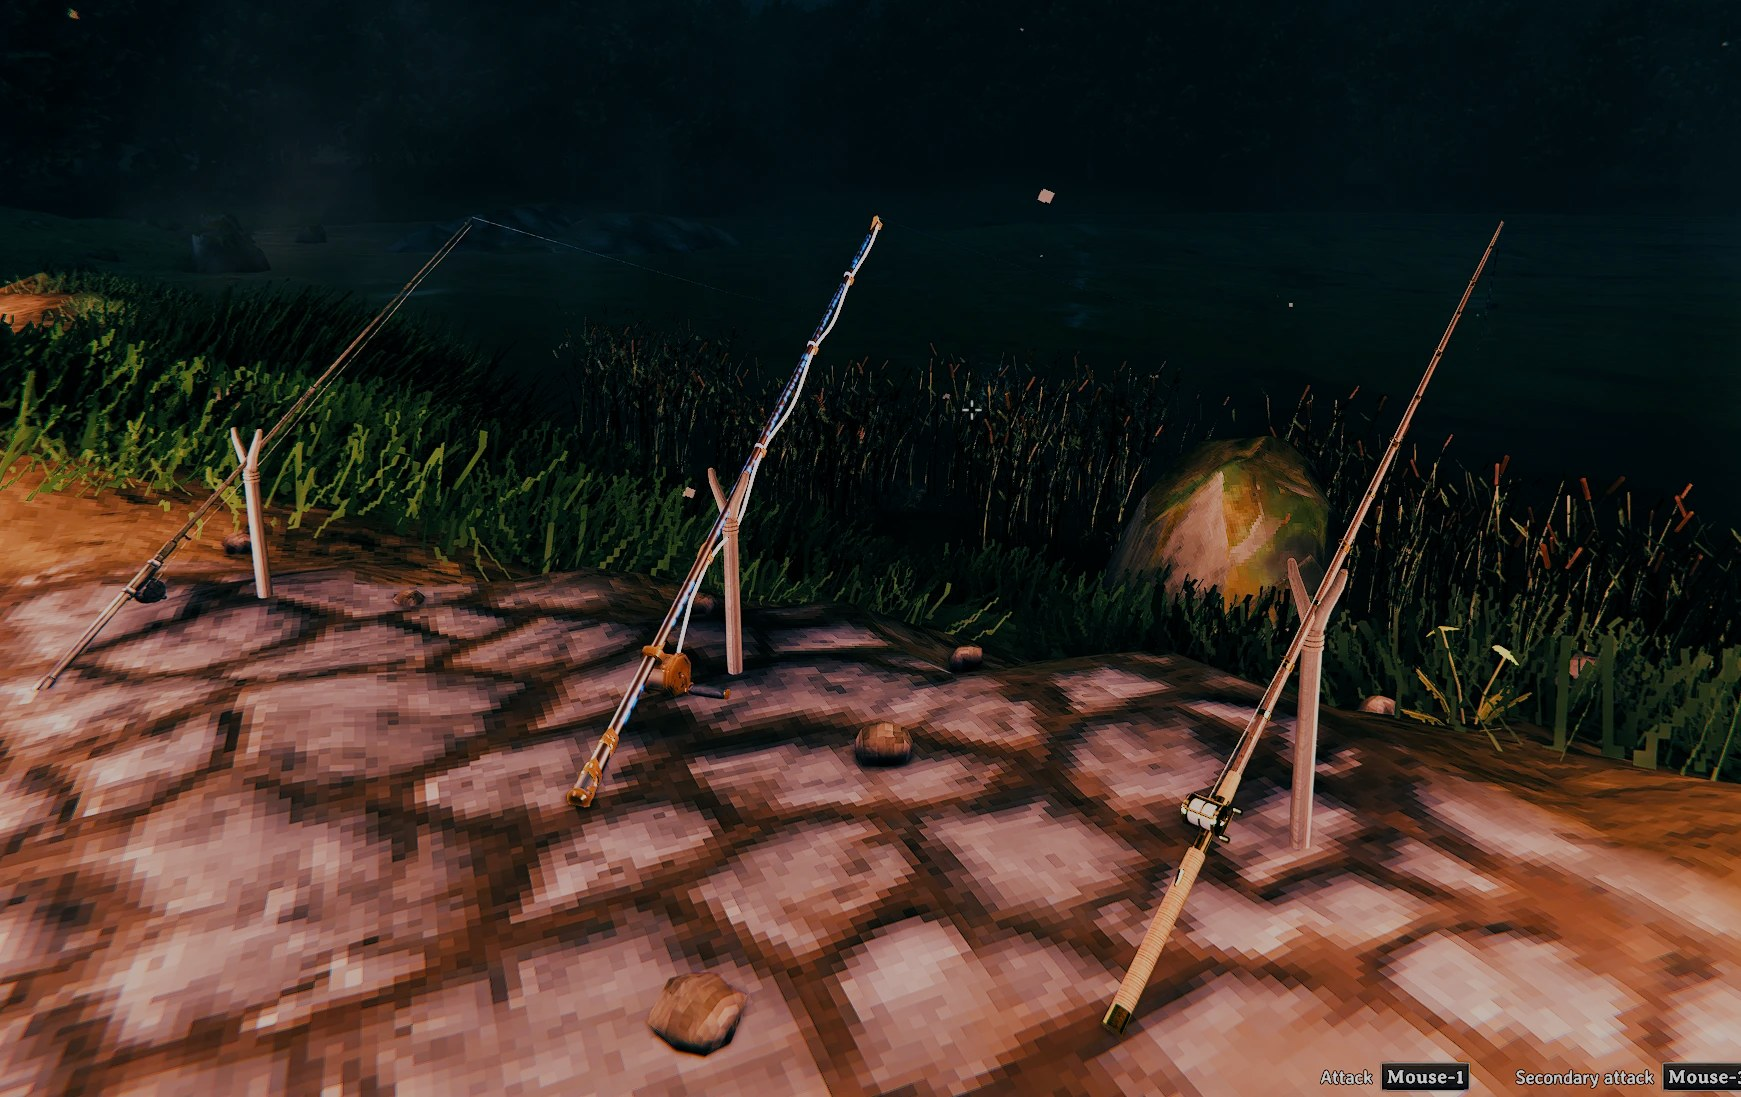
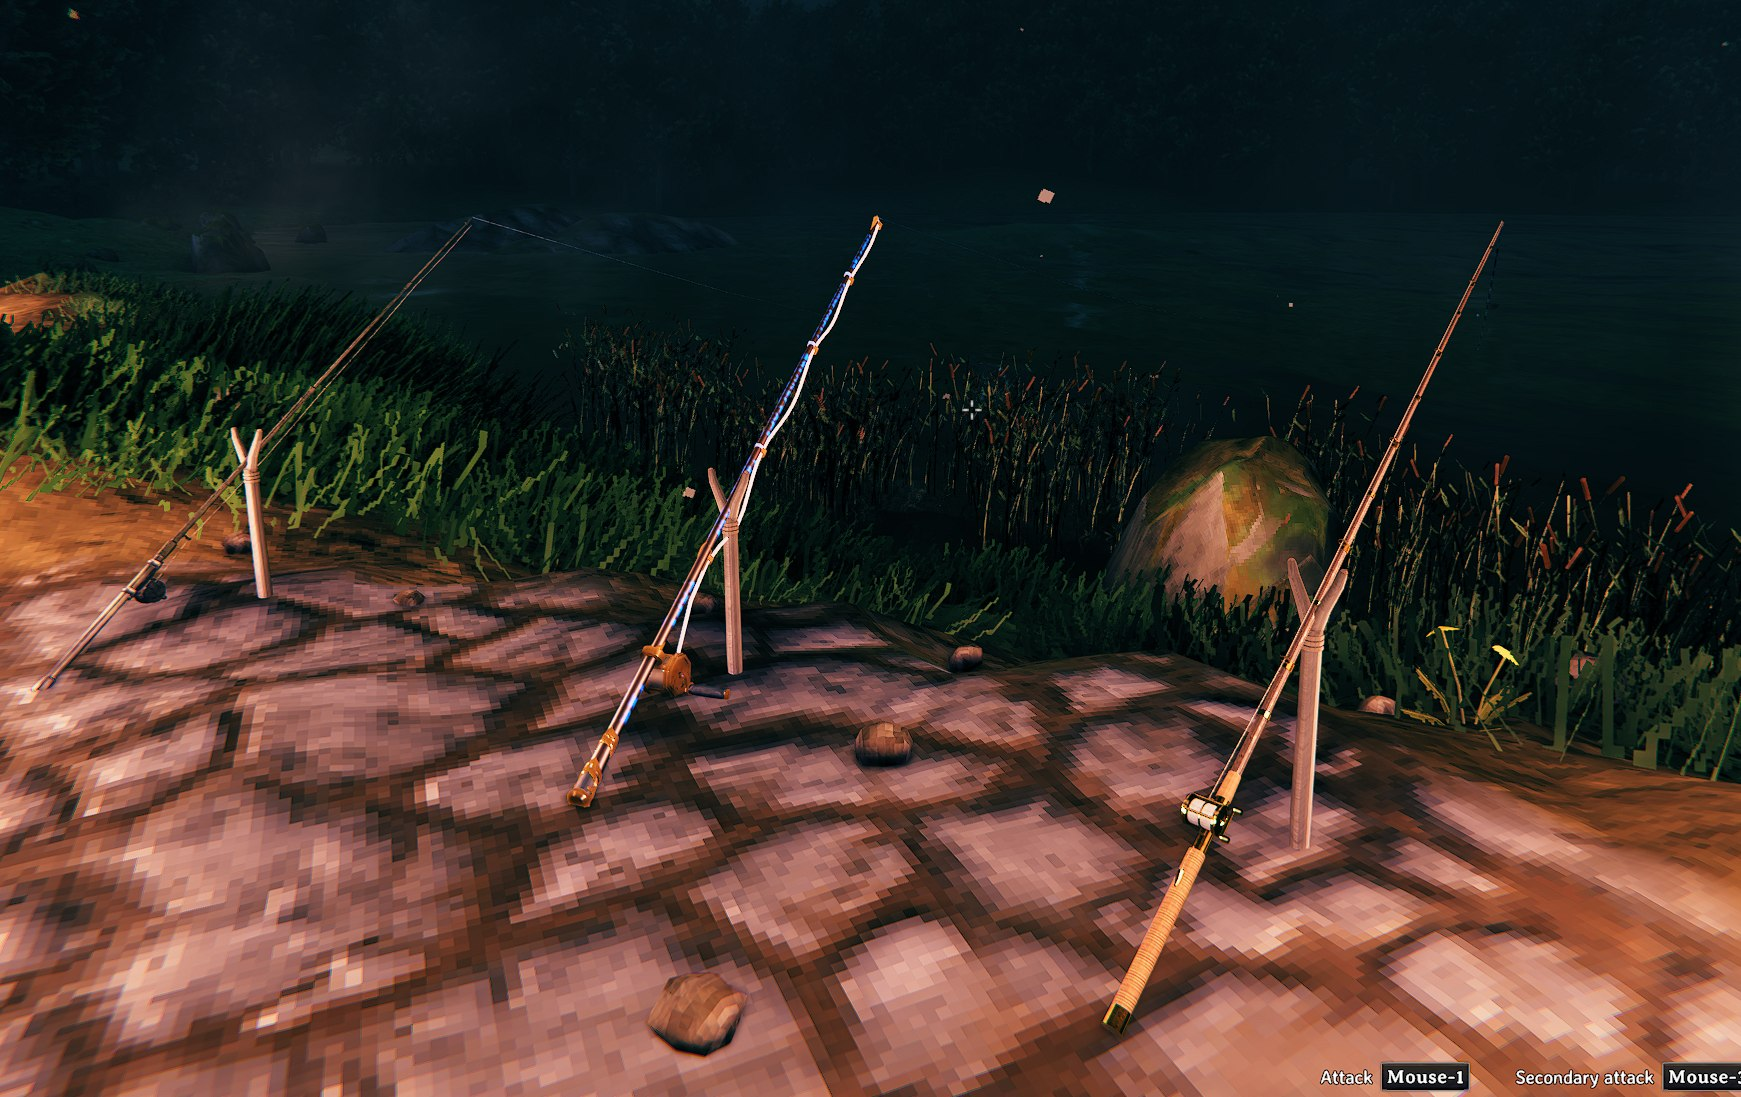
1.0.4: changelog and version
Ice fishing (the Ice Auger, ice holes, the Ice Fishing Rod, the Burbot, Lake
Whitefish and Ice King Trout, two ice jigs), the Hide Lavvu, Ice Shelter and
Ship-Tent, rod holders and the rod rack, and the November playtest fixes. The
rod holder and rod rack screenshots rebuilt from the originals.

diff --git a/src/Core/Plugin.cs b/src/Core/Plugin.cs
@@ -17,7 +17,7 @@ namespace ValheimDeepWaters
     {
         public const string Guid = "valheimdeepwaters";   // also the config file's name: BepInEx/config/valheimdeepwaters.cfg
         public const string Name = "Valheim: Deep Waters";
-        public const string Version = "1.0.3";
+        public const string Version = "1.0.4";
 
         internal static ManualLogSource Log = null!;
         internal static string ConfigDirectory = null!;

diff --git a/CHANGELOG.md b/CHANGELOG.md
@@ -1,5 +1,53 @@
 # Changelog
 
+## 1.0.4
+Ice fishing: drill a hole in the frozen lakes of the Deep North and the Mountain, fish down it for three new fish,
+and do it from one of three shelters. Rod holders and a rod rack, and the fixes from the November playtest.
+
+### Added
+- **Ice fishing**: the lakes and rivers of the Deep North (and the Mountain's frozen lakes) are walkable ice, and
+  nothing can be cast onto it. Drill a hole and fish down it.
+  - **Ice Auger** (forge 3): stand on the ice and attack. You set the auger upright and twist its T-handle until the
+    bit breaks through, and a real hole opens in the ice. It needs at least 1 m of water underneath.
+  - A hole freezes over after 20 minutes, skinning over in the last two. Press `E` to scoop out the slush and keep it
+    open as long again.
+  - **Ice Fishing Rod** (forge 3): a short rod with a bloodgold reel and an Elaking-fur grip. It fishes only through a
+    hole, with a longer hook window there (any other rod works in a hole at half the window). Click at a hole to drop
+    the line straight in; hold the click to let it down further. Click with no hole in front and it just says so.
+  - **Three fish that bite only under the ice**, each with its own model: the **Lake Whitefish** (5 kg), the
+    **Burbot** (8 kg, at night, on the bottom) and the legendary **Ice King Trout** (40 kg, dark slate with ice-white
+    markings and glowing eyes). The cold-water fish of the place bite through a hole too.
+  - **Two jigs** for them: the **Grub Jig** (forge 3) and the **Rime Jig** (black forge 2).
+  - The **Ice Angler's Watch Cap** also makes fish bite 30% sooner through the ice.
+- **Ice shelters**, built with the hammer near a workbench. Walk in: each counts as shelter for resting, the camera
+  stops at its walls, and a fire inside doesn't smoke you out. Drill a hole inside and the fish bite sooner.
+  - **Hide Lavvu** (+10%): a cone of poles under sewn hides, open at the top.
+  - **Ice Shelter** (+15%): an igloo of Valheim's own ice blocks with a vent at the top, and an ice bench round its
+    back wall under a deer hide, with three seats.
+  - **Ship-Tent** (+20%): a Viking ship's tent with dragon-head gables and its own campfire at the back.
+  - They can be set down on the lake ice as well as on the ground.
+- **Rod Holder** (workbench): a forked stake for the bank or the ice. Set a rod in it with its line out and it keeps
+  fishing while you do something else; run several at once. When a fish bites everyone nearby is told, a circle hook
+  sets itself, and anyone can take the rod up and fight it. The HUD shows the tackle on that line.
+- **Rod Rack** (workbench): stores ten rods.
+- A **Weight Unit** setting: catches in pounds or kilograms.
+- Deep Waters catches count for **Valheim's own fishing achievements**.
+
+### Changed
+- **Mead bottles** are see-through glass, with the mead glowing inside.
+- **Boss fish** stir a bigger swirl in the water (16 m, more for the biggest).
+- The Cork float is now the **Cork-and-Bone Float**, made with bone fragments instead of a boss item.
+- With bait out (no lure), a left click tugs the rod and draws the bait in a little.
+- Vanilla fishing rods and baits found in the world (in the frost caves, or dropped) turn into Deep Waters gear.
+- Fireflies glow at night, with a small pulsing light.
+- Textures are 1K at most, so the download is smaller.
+
+### Fixed
+- After looting your grave, equipped items and tackle go back to their own slots.
+- The tackle screen's loadouts use tackle boxes you carry, wear, or set down and open; applying a loadout empties the
+  slots that weren't in it.
+- A fish's extra drops go into your bag when you catch it from a boat.
+
 ## 1.0.3
 The tackle screen with reels, lines and floats, hook kinds, spear fishing, coolers, Hildir's recipes, and new models
 for the baits, hooks, tackle boxes and coolers.
